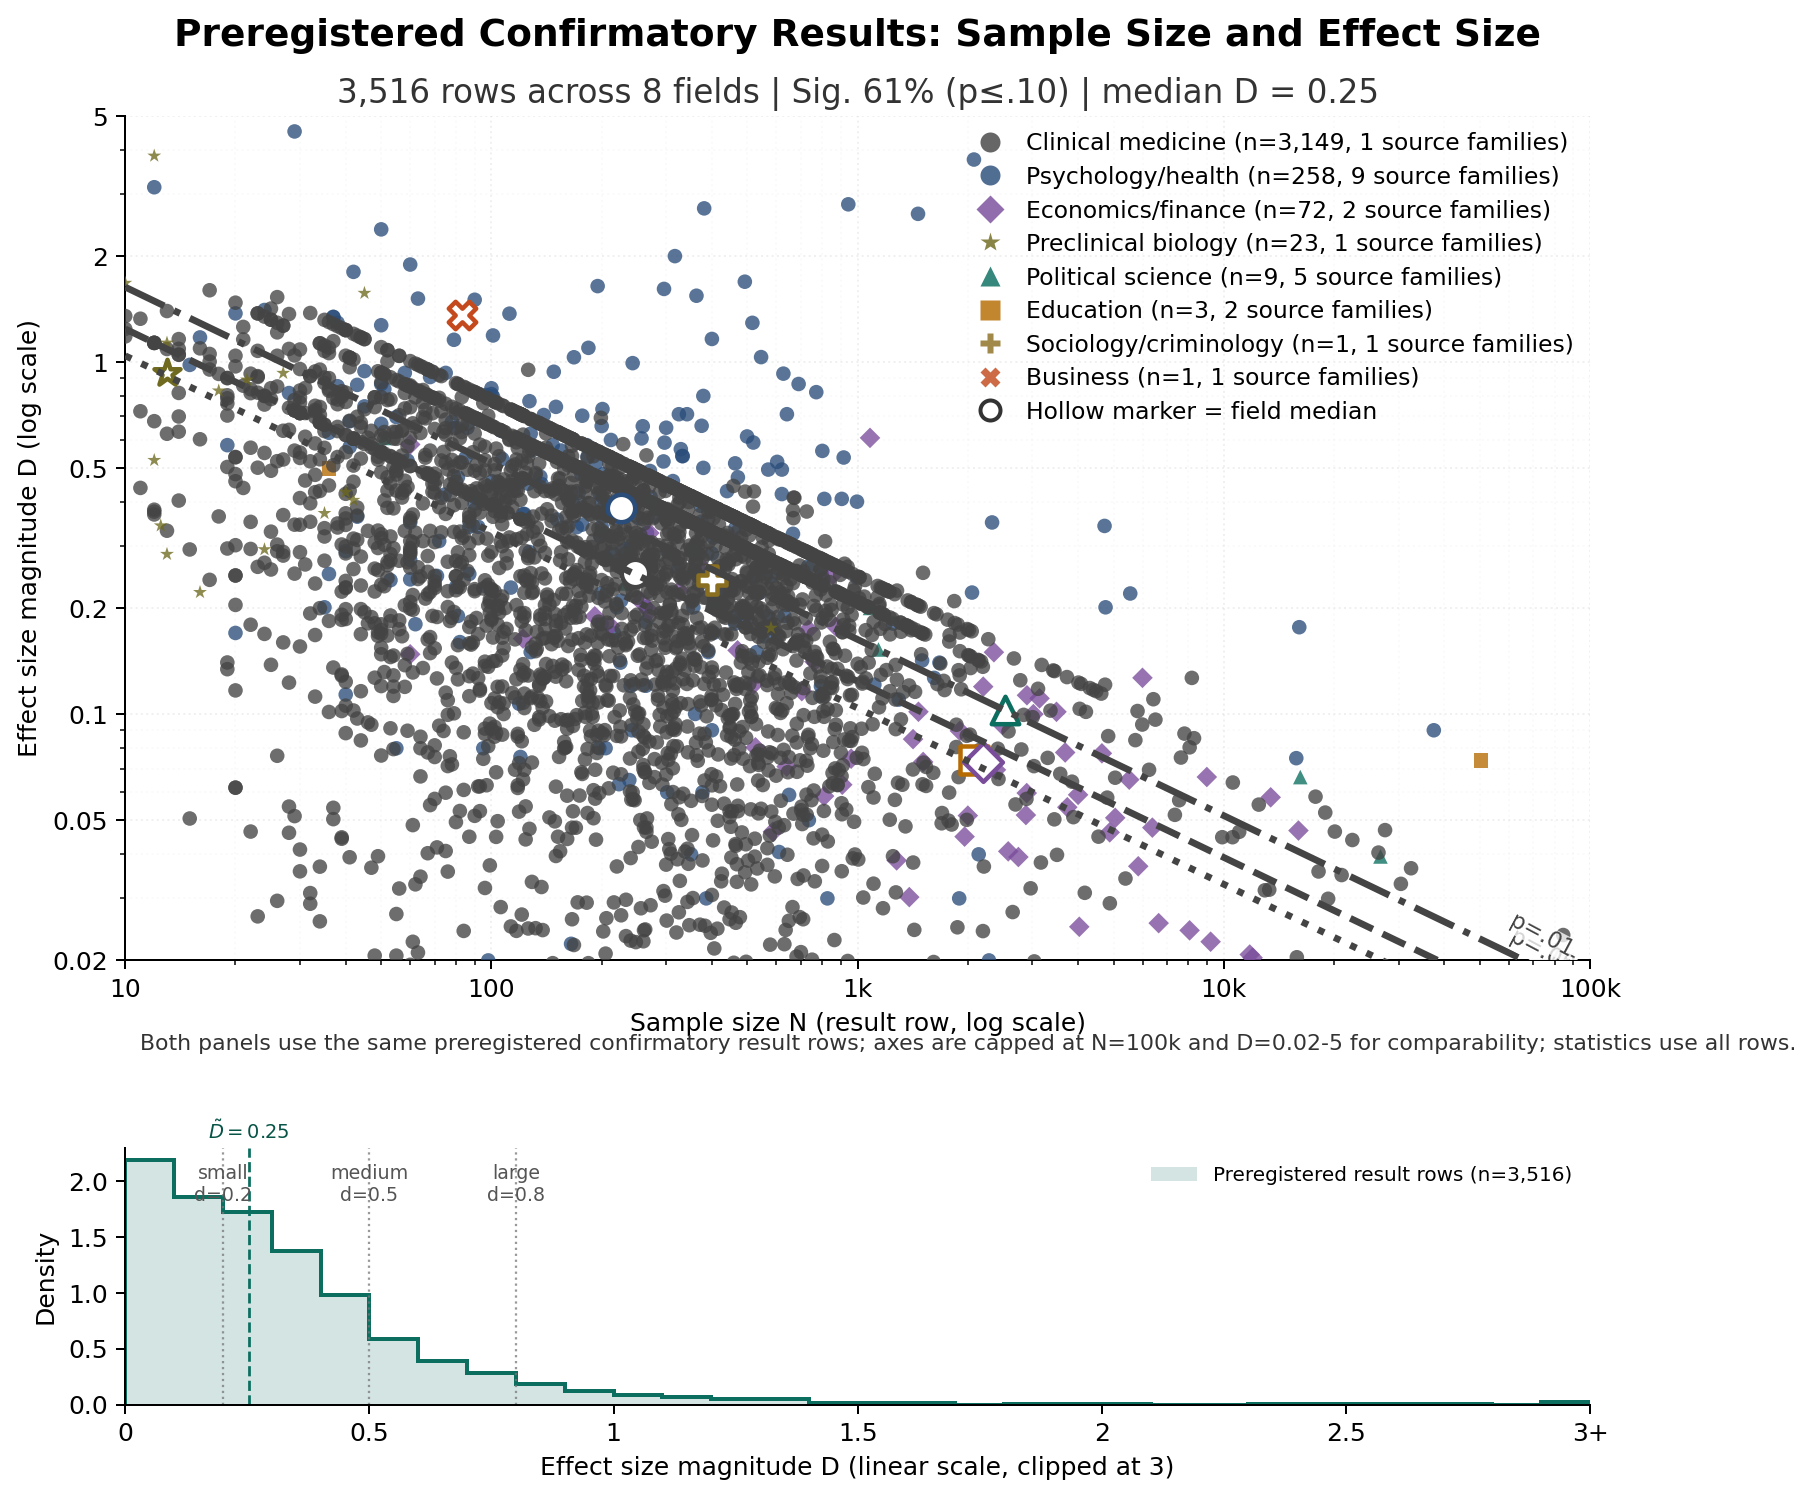
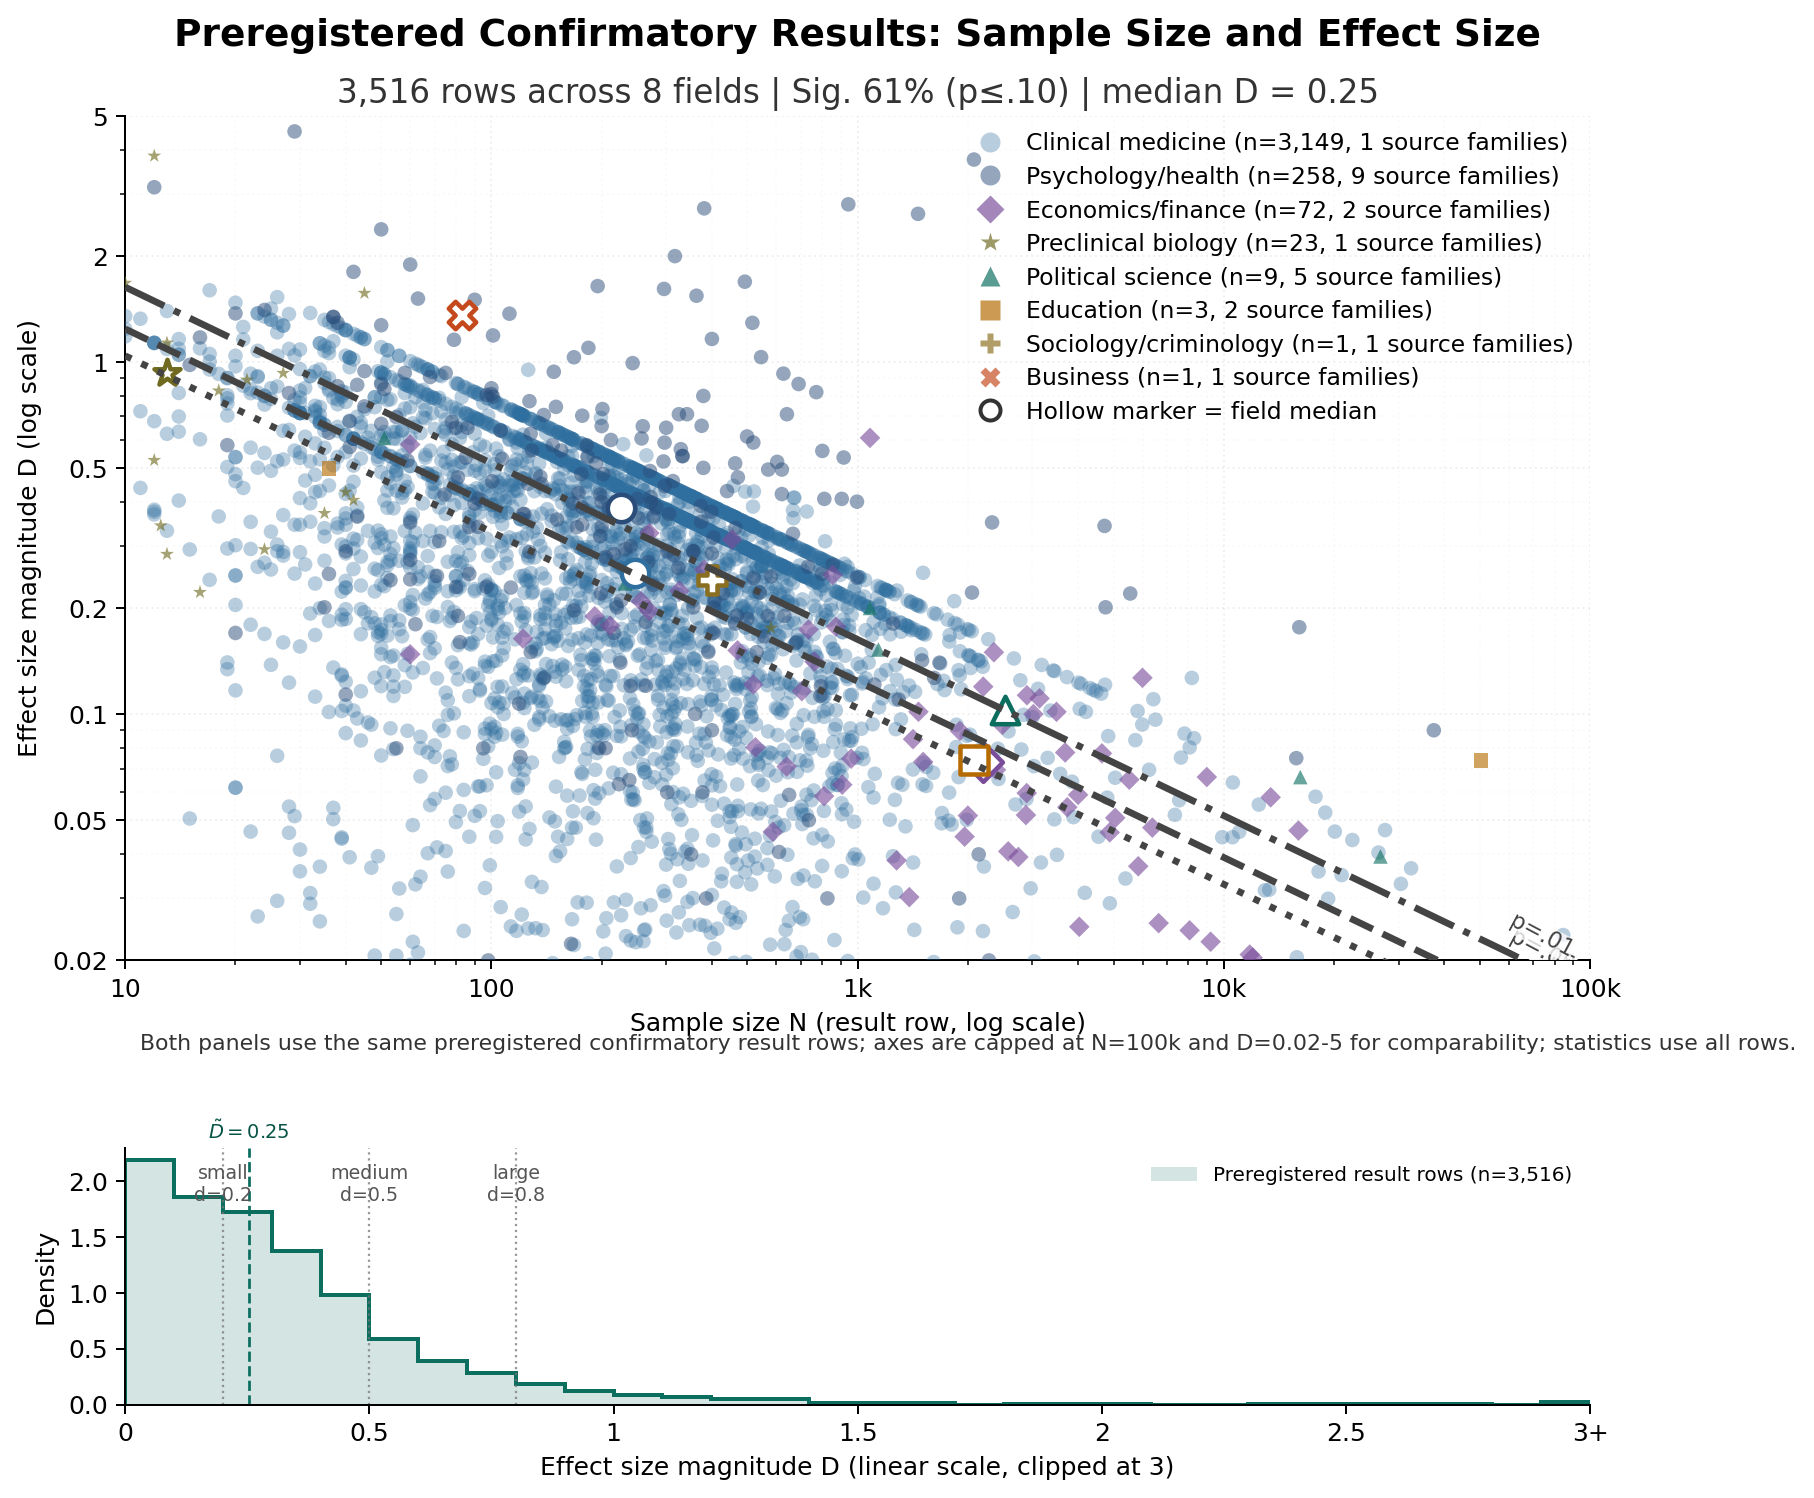
Improve D-vs-N point layering

diff --git a/scripts/build_paper_assets.py b/scripts/build_paper_assets.py
@@ -970,6 +970,23 @@ def fmt_number(value: object, digits: int = 2) -> str:
     return f"{float(value):,.{digits}f}"
 
 
+def groups_by_descending_count(df: pd.DataFrame, column: str) -> list[tuple[object, pd.DataFrame]]:
+    counts = df[column].value_counts(dropna=False)
+    groups: list[tuple[object, pd.DataFrame]] = []
+    for value in counts.index:
+        mask = df[column].isna() if pd.isna(value) else df[column].eq(value)
+        groups.append((value, df.loc[mask].copy()))
+    return groups
+
+
+def point_alpha_for_count(count: int, base: float = 0.64) -> float:
+    if count >= 1000:
+        return min(base, 0.34)
+    if count >= 100:
+        return min(base, 0.50)
+    return min(base, 0.68)
+
+
 def build_tess_study_index() -> pd.DataFrame:
     """Scrape the public TESS past-studies index into a stable extraction queue."""
     url = "https://tessexperiments.org/paststudies"
@@ -3384,6 +3401,7 @@ def draw_preregistered_results(out_path: Path) -> dict[str, float | int]:
         "sociology and criminology": "#8b6f21",
         "business": "#c44a1e",
         "preclinical biology": "#6f6a1f",
+        "clinical medicine": "#2f6f9f",
         "mixed social/behavioral science": "#555555",
     }
     markers = {
@@ -3394,6 +3412,7 @@ def draw_preregistered_results(out_path: Path) -> dict[str, float | int]:
         "sociology and criminology": "P",
         "business": "X",
         "preclinical biology": "*",
+        "clinical medicine": "o",
         "mixed social/behavioral science": "v",
     }
 
@@ -3408,7 +3427,7 @@ def draw_preregistered_results(out_path: Path) -> dict[str, float | int]:
     ax = fig.add_subplot(gs[0, 0])
     ax_hist = fig.add_subplot(gs[1, 0])
 
-    for field, group in df.groupby("field", sort=False):
+    for field, group in groups_by_descending_count(df, "field"):
         color = colors.get(field, "#444444")
         ax.scatter(
             group["N"],
@@ -3417,7 +3436,7 @@ def draw_preregistered_results(out_path: Path) -> dict[str, float | int]:
             marker=markers.get(field, "o"),
             color=color,
             edgecolors="none",
-            alpha=0.78,
+            alpha=point_alpha_for_count(len(group), base=0.62),
             rasterized=True,
             zorder=3,
         )
@@ -3439,7 +3458,7 @@ def draw_preregistered_results(out_path: Path) -> dict[str, float | int]:
         .reset_index()
     )
 
-    for row in medians.itertuples(index=False):
+    for row in medians.sort_values("n_rows", ascending=False).itertuples(index=False):
         color = colors.get(row.field, "#444444")
         marker = markers.get(row.field, "o")
         ax.scatter(
@@ -3532,7 +3551,7 @@ def draw_preregistered_results(out_path: Path) -> dict[str, float | int]:
                 markerfacecolor=color,
                 markeredgecolor="none",
                 markersize=8,
-                alpha=0.82,
+                alpha=point_alpha_for_count(int(row.n_rows), base=0.78),
                 label=f"{safe_text(row.field_label)} (n={fmt_int(row.n_rows)}, {fmt_int(row.n_sources)} source families)",
             )
         )
@@ -3694,7 +3713,7 @@ def draw_preregistered_sensitivity_sidecar(out_path: Path) -> dict[str, float | 
         )
         .reset_index()
     )
-    for source_family, group in df.groupby("source_family", sort=False):
+    for source_family, group in groups_by_descending_count(df, "source_family"):
         color = colors.get(source_family, "#444444")
         ax.scatter(
             group["N"],
@@ -3703,12 +3722,12 @@ def draw_preregistered_sensitivity_sidecar(out_path: Path) -> dict[str, float | 
             marker=markers.get(source_family, "o"),
             color=color,
             edgecolors="none",
-            alpha=0.22 if "ClinicalTrials.gov" in source_family else 0.30,
+            alpha=0.18 if "ClinicalTrials.gov" in source_family else point_alpha_for_count(len(group), base=0.42),
             rasterized=True,
             zorder=3,
         )
 
-    for row in medians.itertuples(index=False):
+    for row in medians.sort_values("n_rows", ascending=False).itertuples(index=False):
         color = colors.get(row.source_family, "#444444")
         ax.scatter(
             row.median_N,
@@ -3808,7 +3827,7 @@ def draw_preregistered_sensitivity_sidecar(out_path: Path) -> dict[str, float | 
     linear_d_max = 3.0
     linear_bin_width = 0.1
     linear_bins = np.arange(0, linear_d_max + linear_bin_width, linear_bin_width)
-    for source_family, group in df.groupby("source_family", sort=False):
+    for source_family, group in groups_by_descending_count(df, "source_family"):
         color = colors.get(source_family, "#444444")
         ax_hist.hist(
             group["D"].clip(lower=0, upper=linear_d_max),
@@ -4210,7 +4229,10 @@ def draw_all_source_dn_dump(out_path: Path) -> dict[str, float | int]:
     ax.plot(xs, boundary_05, color="#1f1f1f", lw=1.5, label="two-sample p < .05 boundary", zorder=1)
     ax.plot(xs, boundary_10, color="#606060", lw=1.0, linestyle="--", label="two-sample p < .10 boundary", zorder=1)
 
-    for layer, (label, color, size, alpha) in layer_specs.items():
+    layer_counts = df["source_layer"].value_counts()
+    ordered_layers = sorted(layer_specs, key=lambda layer: layer_counts.get(layer, 0), reverse=True)
+    for order_index, layer in enumerate(ordered_layers):
+        label, color, size, alpha = layer_specs[layer]
         group = df[df["source_layer"].eq(layer)]
         if group.empty:
             continue
@@ -4223,7 +4245,7 @@ def draw_all_source_dn_dump(out_path: Path) -> dict[str, float | int]:
             linewidths=0,
             rasterized=True,
             label=f"{label} ({len(group):,})",
-            zorder=2 if "published" in layer else 3,
+            zorder=2 + order_index * 0.05,
         )
 
     median_d = float(df["D"].median())